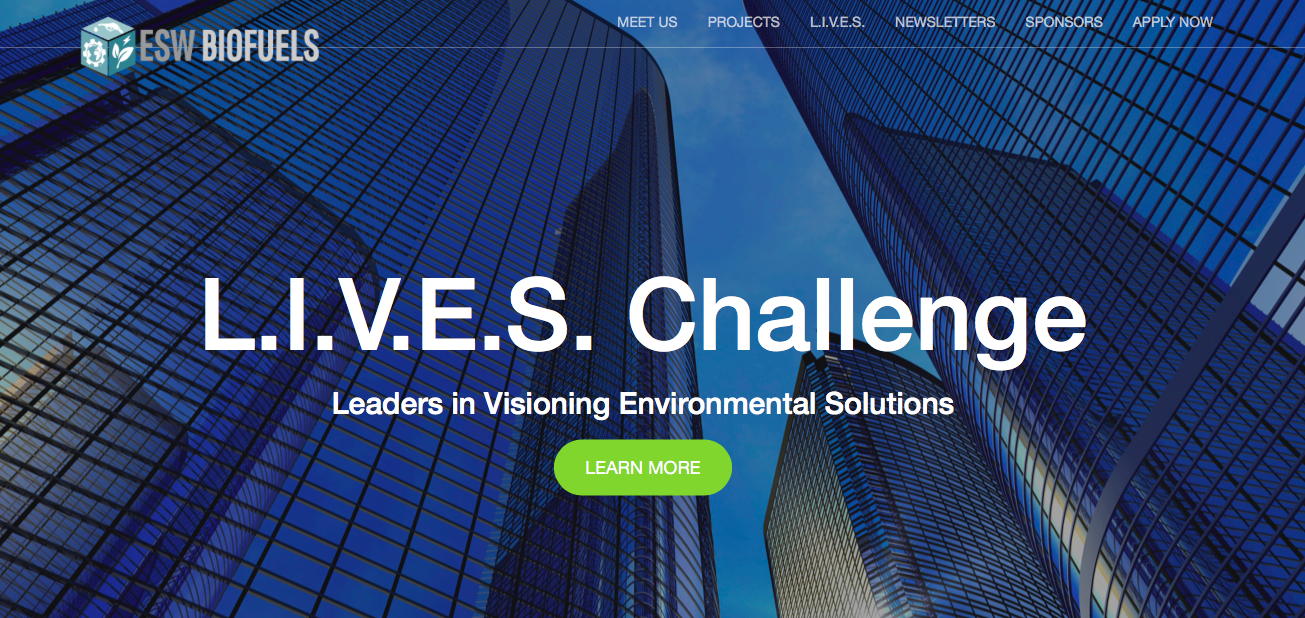
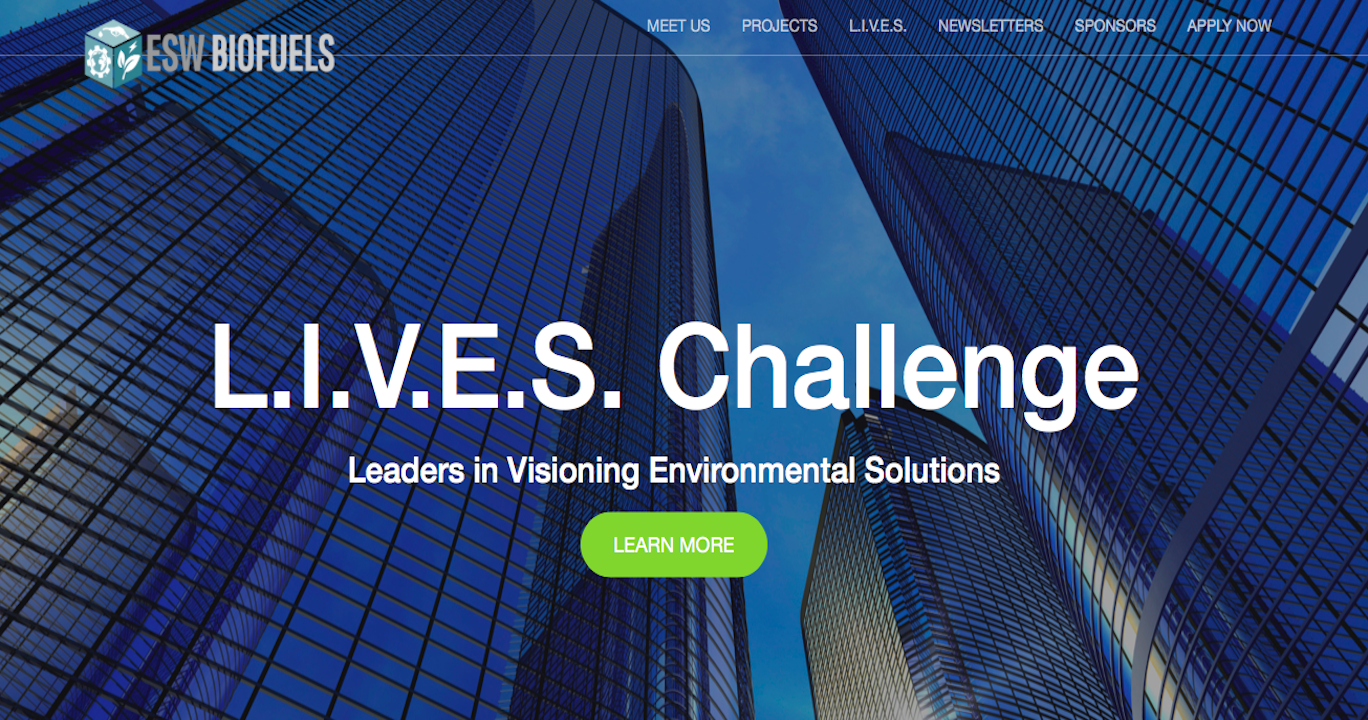
new sizes

diff --git a/index.html b/index.html
@@ -36,14 +36,14 @@
 
 <div class="container-f">
 <div class="col-md-6">
-<a href= "https://blog.prototypr.io/spotify-concept-risk-free-music-exploration-f5c7fa85bfa6"><img src="p1img.png" id= "portimgb"> </a>
+<a href= "https://blog.prototypr.io/spotify-concept-risk-free-music-exploration-f5c7fa85bfa6"><img src="p1img.png" id= "portimgd"> </a>
 <br>
 
 <h4 id="text2">Case Study: Spotify Trial Music </h4>
 <h5 id="text3">UX Research + Product Design + Sketch + InVision + Prototyping </h5>
 </div>
 <div class="col-md-6">
-  <a href="https://github.com/medhavi27/iOSSpotifyTrends/blob/master/README.md"><img src="SpotifyPB.png" id="portimgb"> </a>
+  <a href="https://github.com/medhavi27/iOSSpotifyTrends/blob/master/README.md"><img src="SpotifyPB.png" id="portimgd"> </a>
   <br>
   <h4 id="text2">iOS project: Spotify Trends </h4>
   <h5 id="text3">iOS Development + Swift + XCode + API Integration</h5>

diff --git a/style.css b/style.css
@@ -49,8 +49,8 @@ ul a {
 }
 #portimga {
   border-radius: 5%;
-  width: 80%;
-  height: 75%;
+  width: 87%;
+  height: 93%;
 }
 #portimgb {
   border-radius: 5%;
@@ -66,8 +66,8 @@ ul a {
 }
 #portimgd {
   border-radius: 5%;
-  width: 75%;
-  height: 55%;
+  width: 85%;
+  height: 85%;
 
 }
 
